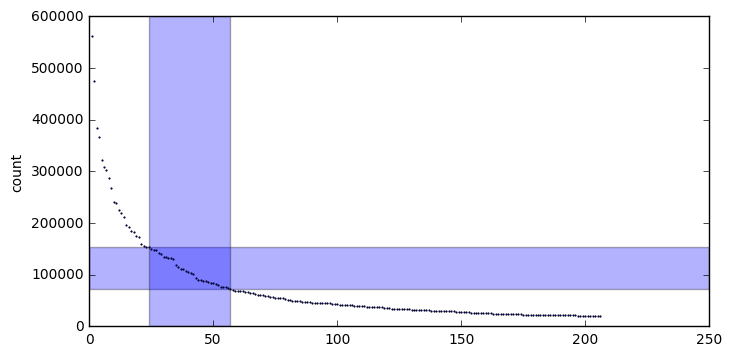
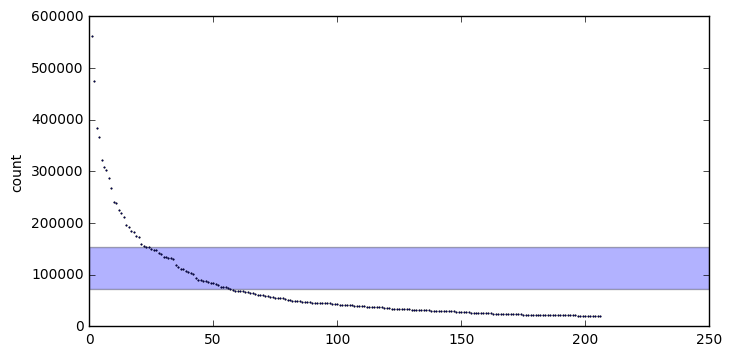
Save current results as markdown.

Changed region(s): [[0.1803, 0.0309, 0.3306, 0.927]]

diff --git a/results/analysis.md b/results/analysis.md
@@ -392,7 +392,6 @@ print("Standard derivation:", np.std(tag_count))
 plt.figure(figsize=(8, 4))
 plt.plot(range(1, len(tag_count) + 1), tag_count, "bo", markersize=1)
 plt.axhspan(np.mean(tag_count), np.mean(tag_count) + np.std(tag_count), alpha=0.3)
-plt.axvspan(24, 57, alpha=0.3)  # Hardcoded; ugly!
 plt.ylabel("count")
 plt.show()
 ```
@@ -400,3 +399,19 @@ plt.show()
 
 ![png](output_22_0.png)
 
+
+Idea. Define categories by these tags:
+* nude
+* school uniform
+* swimsuit
+* japanese clothes
+* dress
+* shorts, shirt
+
+*Check to what extend the id's for these tags are disjoint.*
+
+Maybe use some additional features:
+* loli
+* cat ears, cat tail
+
+*These tags do not to be disjoint.*
